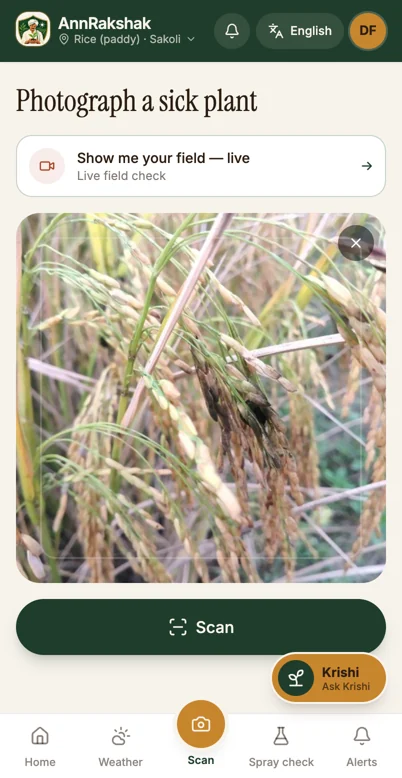
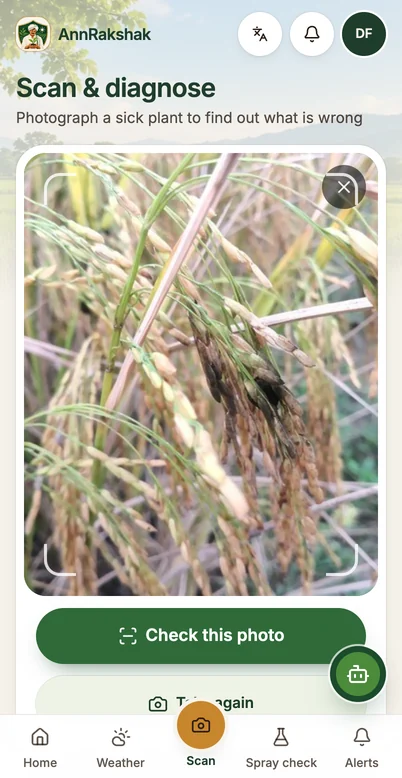
the landing page's phones show the app as it now is
Every phone screen on the front page is a capture of the real farmer app, and
they were all of the old design. Re-filmed with the capture script at 402 x 778:
Home, the camera, the ICAR test photos, the framed sample, the answer (False
smut, 97%, with where the AI looked), what not to do and the safest step, when
to call an expert, the language sheet, and the same answer in Marathi.

- the hero phone gains a frame for the sample grid, and asks for Marathi from
  the top of the answer: on a phone the header now scrolls with the page
- its taps are measured off the new frames, its status bar is dark over the
  app's light sky, and its wallpaper matches the new top and bottom colours
- capture-demo.mjs: finds controls by role and label and scrolls the answer by
  its headings instead of fixed offsets, registers a rice field when the
  fresh demo account has none, prints the tap positions and wallpaper colours,
  and runs on puppeteer-core against the Chrome already installed
- the How it works and For farmers descriptions follow the new screens

diff --git a/frontend/landing/src/stageshow/ScanDemo.tsx b/frontend/landing/src/stageshow/ScanDemo.tsx
@@ -32,6 +32,7 @@ type Shot = { src: string }
 const FRAMES = {
   home: { src: '/demo/home-en.webp' },
   scan: { src: '/demo/scan-en.webp' },
+  samples: { src: '/demo/samples-en.webp' },
   framed: { src: '/demo/framed-en.webp' },
   verdict: { src: '/demo/result-en-0.webp' },
   advice: { src: '/demo/result-en-1.webp' },
@@ -49,11 +50,11 @@ const REST = { x: 300, y: 500 }
 /** Where the cursor goes, as a share of the screen: these are taps on a
  *  photograph, so they are placed against what the photograph shows. */
 const TAPS: Partial<Record<Key, { x: number; y: number }>> = {
-  home: { x: 0.5, y: 0.945 },    // Scan, in the bottom bar
-  scan: { x: 0.22, y: 0.66 },    // the first ICAR sample
-  framed: { x: 0.5, y: 0.71 },   // the Scan button under the framed leaf
-  expert: { x: 0.74, y: 0.037 }, // the language pill in the header
-  lang: { x: 0.28, y: 0.49 },    // मराठी
+  home: { x: 0.5, y: 0.93 },       // Scan, raised in the middle of the bottom bar
+  samples: { x: 0.5, y: 0.517 },   // false smut, an untagged ICAR sample
+  framed: { x: 0.5, y: 0.817 },    // Check this photo
+  verdict: { x: 0.647, y: 0.044 }, // the language button in the header
+  lang: { x: 0.265, y: 0.614 },    // मराठी
 }
 
 const script = async (a: Act<S>) => {
@@ -67,11 +68,13 @@ const script = async (a: Act<S>) => {
   // Her field, then the one button the home screen is built around.
   await tap('home')
   await a.set({ at: 'scan' })
-  await a.wait(1200)
+  await a.wait(1400)
 
-  // A held-out ICAR photograph — the app's own words for them are "real
-  // photographs the model has been scored on".
-  await tap('scan')
+  // Down to the held-out ICAR photographs — the app's own words for them are
+  // "never used in training".
+  await a.set({ at: 'samples' })
+  await a.wait(1000)
+  await tap('samples')
   await a.set({ at: 'framed' })
   await a.wait(1300)
 
@@ -83,15 +86,18 @@ const script = async (a: Act<S>) => {
   await a.wait(2600)
 
   // Down the answer: what not to do, then the cheapest thing that works, then
-  // who to call and when it will ask her how it went. This is the part a
+  // when to call an expert and the number to call. This is the part a
   // plant-identification app has nothing to show for.
   await a.set({ at: 'advice' })
   await a.wait(2800)
   await a.set({ at: 'expert' })
   await a.wait(2600)
 
-  // And the same answer in her own language, which is one tap away.
-  await tap('expert')
+  // And the same answer in her own language, which is one tap away. On a
+  // phone the header scrolls with the page, so it is back at the top first.
+  await a.set({ at: 'verdict' })
+  await a.wait(900)
+  await tap('verdict')
   await a.set({ at: 'lang' })
   await a.wait(1400)
   await tap('lang')
@@ -126,12 +132,14 @@ export default function ScanDemo() {
           <>
             <Phone
               width={width}
-              dark
+              // The app's top is a light sky now, so the clock and battery
+              // are drawn dark over it, as the phone itself would.
               // What a real device shows around the app: its header colour
               // runs up behind the clock and battery, and the bottom bar's
               // own white runs down behind the home indicator. Measured off
-              // the captures (#1f3d2c and #f5f5f5) so the seams disappear.
-              wallpaper="linear-gradient(#1f3d2c 0 62px, #f5f5f5 62px)"
+              // the captures (#d3e3ef, the sky over the hills, and #fffefe)
+              // so the seams disappear.
+              wallpaper="linear-gradient(#d3e3ef 0 62px, #fffefe 62px)"
               className="sd-phone"
             >
               <div className="sd-screen">

diff --git a/frontend/landing/src/sections/HowItWorks.tsx b/frontend/landing/src/sections/HowItWorks.tsx
@@ -9,19 +9,19 @@ import PhoneShot from '../ui/PhoneShot'
 const STEPS = [
   {
     src: '/demo/scan-en.webp',
-    alt: 'The scan screen: photograph a sick plant, with a frame to fill and a live field check option',
+    alt: 'The scan screen: a camera frame to fill with the sick leaf, with buttons to open the camera or choose from the gallery',
     title: 'Take a photo',
     line: 'Point the camera at the sick leaf, in daylight. No typing, no forms.',
   },
   {
     src: '/demo/result-en-0.webp',
-    alt: 'The answer: a rice panicle with the Grad-CAM heat map over it, named False smut, 98% sure',
+    alt: 'The answer: a rice panicle with the heat map of where the AI looked, named False smut, 97% sure',
     title: 'See what it is',
     line: 'It names the disease, marks where it looked, and says how sure it is.',
   },
   {
     src: '/demo/result-en-1.webp',
-    alt: 'The treatment: what not to do, with a listen button, then the safest field practice first',
+    alt: 'The treatment: what not to do, with a listen button, then the safest field practice first and the chemical only on request',
     title: 'Treat it safely',
     line: 'What not to do, then the safest step first. Chemicals only if it keeps spreading.',
   },

diff --git a/frontend/landing/src/sections/Impact.tsx b/frontend/landing/src/sections/Impact.tsx
@@ -83,8 +83,8 @@ export default function Impact() {
               line="One screen, in their own language, read aloud — saying what to do today."
               show={
                 <PhoneShot src="/demo/result-mr.webp"
-                  alt="The answer in Marathi: the disease name, how sure it is, and what not to do, with a listen button"
-                  crop={{ aspect: 'aspect-square', position: 'object-[50%_32%]' }} />
+                  alt="The answer in Marathi: the disease name, how sure it is, what else it considered, and when it will ask again"
+                  crop={{ aspect: 'aspect-square', position: 'object-[50%_0%]' }} />
               }
               points={FARMER_POINTS}
             />
